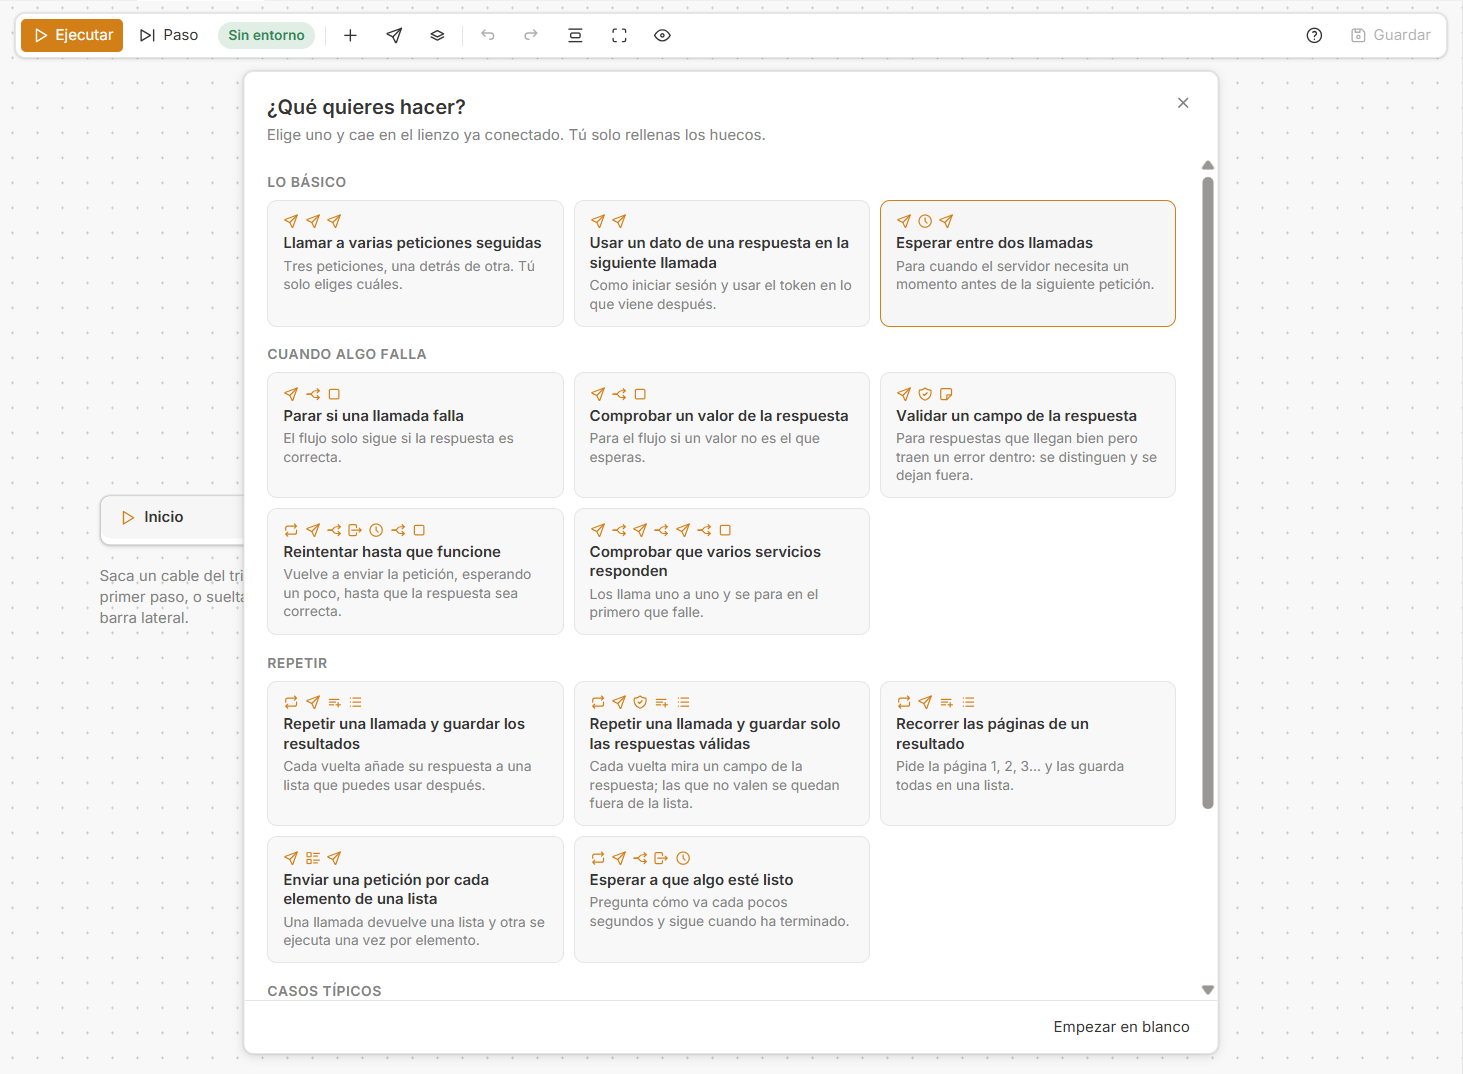
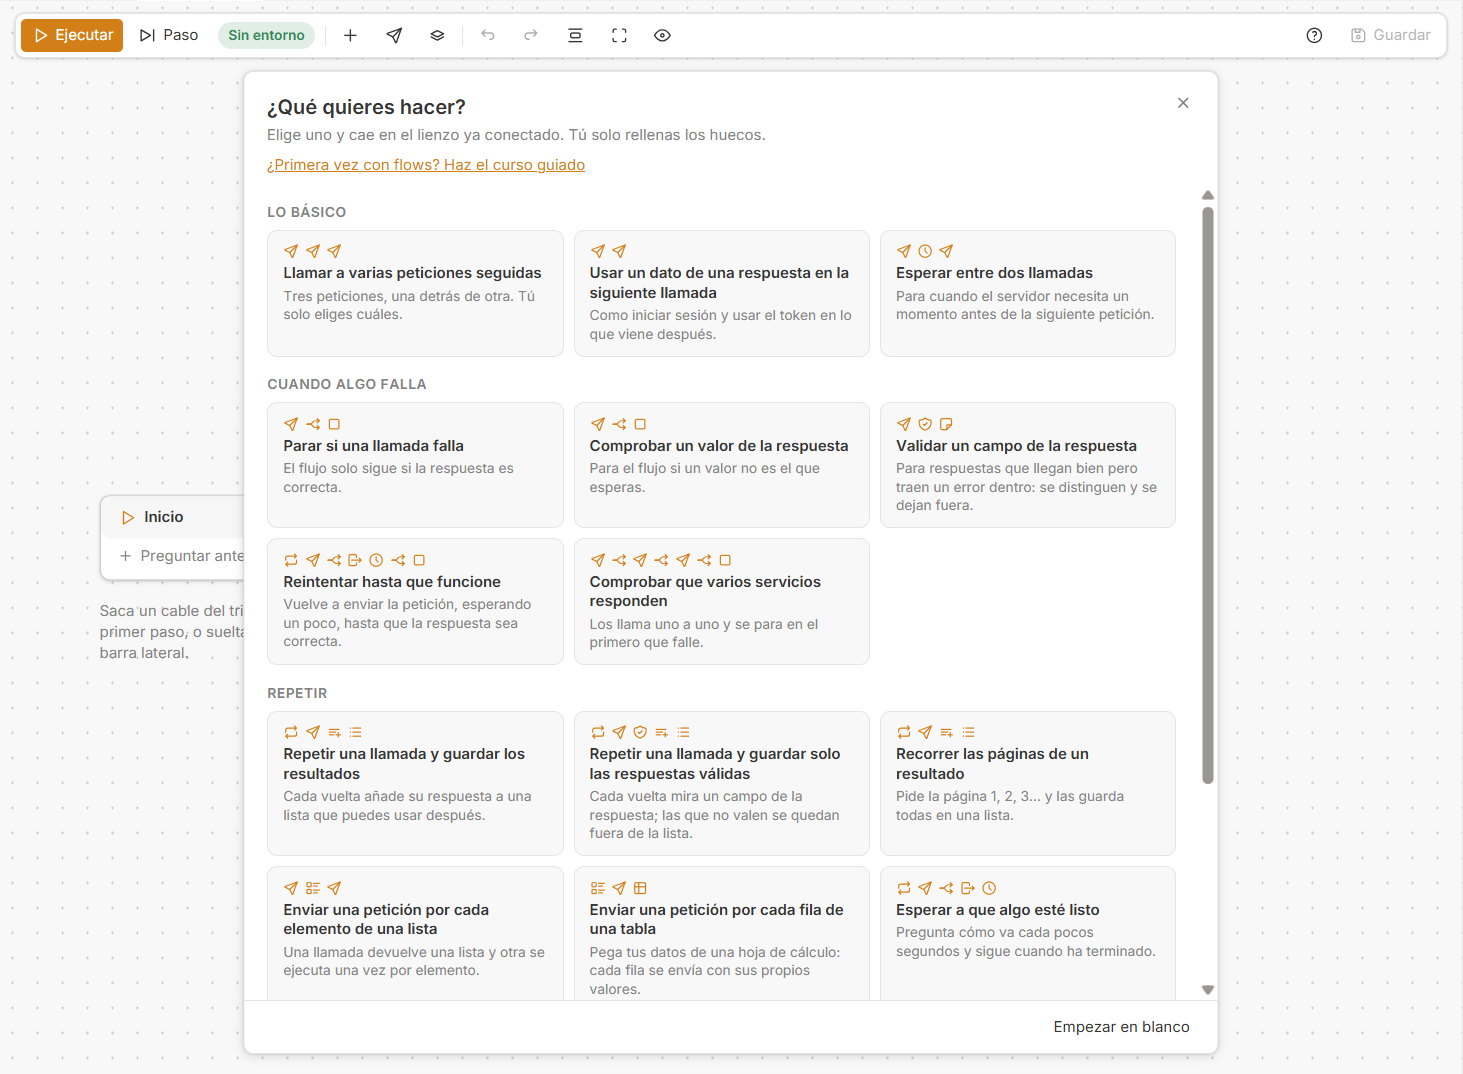
docs(flows): herramientas nuevas, curso guiado, DEC-29 y capturas al día

diff --git a/fork/docs/funciones/flows.md b/fork/docs/funciones/flows.md
@@ -22,14 +22,16 @@ Para empezar a usarla sin leer todo esto está la [guía rápida](flows-guia.md)
 
 | Paso | Qué hace |
 |---|---|
-| Start | Donde empieza el flow. Siempre hay uno y no se puede borrar |
+| Start | Donde empieza el flow. Siempre hay uno y no se puede borrar. Puede hacer preguntas antes de ejecutar (ver [Preguntar antes de ejecutar](#preguntar-antes-de-ejecutar)) |
 | Request | Envía una petición de la colección, igual que desde su pestaña: mismo entorno, mismos scripts y la respuesta queda también en la pestaña de la petición |
-| If | Elige un camino. Comprueba si la última respuesta fue correcta (2xx), si su código es uno concreto, o compara dos valores |
+| If | Elige un camino. Comprueba si la última respuesta fue correcta (2xx), si su código es uno concreto, si pasan los tests que lleva la petición, o compara dos valores |
 | Validate | Mira un valor y decide si lo que llegó vale: *Not valid if* [valor] [comparación] [otro valor]. Sigue por **Valid** o por **Not valid**. Es para las respuestas que llegan con un 200 pero traen un código de error dentro: lo que cuelga de **Valid** no las ve. Dentro de un bucle, si de **Not valid** no cuelga nada, la vuelta termina y empieza la siguiente |
 | Repeat | Repite lo que cuelga de *On each round* las veces indicadas. Lo que repite queda dentro de un marco. La vuelta termina cuando el camino se acaba o cuando llega a *End of round* |
 | For each item | Como Repeat, pero da una vuelta por cada elemento de una lista: una lista del flow o un campo de una respuesta que sea una lista. En cada vuelta entrega el elemento (*Item*), los campos suyos que se añadan con *Add a field* y el número de vuelta |
 | Leave loop | Termina el bucle en el que está, aunque le queden vueltas, y el flow sigue por su *When finished*. Sirve para reintentar hasta que algo funcione o esperar a que un proceso termine. Fuera de un bucle lleva un aviso y el flow no se ejecuta |
 | List y Add to list | Una lista que se va llenando, con un valor o con varios campos por vuelta. Se puede usar después del bucle. **Add to list** elige su lista por nombre en un desplegable; si el flow solo tiene una, ya viene elegida. El paso **List** enseña dentro lo que va guardando y abre su informe (ver [El informe de una lista](#el-informe-de-una-lista)) |
+| Data table | Una tabla de datos escrita en el flow, para recorrerla con **For each item**: cada fila es un elemento y sus columnas, sus campos (ver [Tabla de datos](#tabla-de-datos)) |
+| Run a flow | Ejecuta otro flow de la colección como un paso (ver [Flows dentro de flows](#flows-dentro-de-flows)) |
 | Set variable | Guarda un valor con un nombre para usarlo en pasos posteriores como `{{nombre}}` |
 | Wait | Espera unos segundos |
 | Note | Escribe un mensaje en la salida y sigue |
@@ -49,7 +51,7 @@ La lista de **Add a field**, y la de valores de otros pasos, ofrece los campos d
 
 Lo que no aparece se puede escribir a mano, también como en los scripts: `pedidos[2].id`.
 
-**Listas.** Un campo que pasa por una lista lee, si no se dice otra cosa, el primer elemento. En su fila sale una ficha con el elemento que lee (`#1`); al pulsarla se elige **The first item**, **The last item** o se escribe una posición contando desde 1. Una lista entera se entrega tal cual (`all`) y también se puede pedir uno solo de sus elementos. Para pasar por todos está el paso **For each item**.
+**Listas.** Un campo que pasa por una lista lee, si no se dice otra cosa, el primer elemento. En su fila sale una ficha con el elemento que lee (`#1`); al pulsarla se elige **The first item**, **The last item**, se escribe una posición contando desde 1, o se escribe `campo=valor` para leer el primer elemento que lo cumple (`estado=abierto`). A mano también vale `pedidos[estado=abierto].id`. Una lista entera se entrega tal cual (`all`) y también se puede pedir uno solo de sus elementos. Para pasar por todos está el paso **For each item**.
 
 ### Texto o valor de otro paso
 
@@ -88,12 +90,44 @@ Bloques que trae Michi:
 |---|---|
 | The basics | Llamar a varias peticiones seguidas · usar un valor de una respuesta en la siguiente llamada · esperar entre dos llamadas |
 | When something fails | Parar si una llamada falla · comprobar un valor de la respuesta · validar un campo de la respuesta · reintentar hasta que funcione · comprobar que varios servicios responden |
-| Repeating | Repetir una llamada y guardar los resultados · repetir una llamada y guardar solo las respuestas válidas · recorrer las páginas de un resultado · enviar una petición por cada elemento de una lista · esperar a que algo esté listo |
+| Repeating | Repetir una llamada y guardar los resultados · repetir una llamada y guardar solo las respuestas válidas · recorrer las páginas de un resultado · enviar una petición por cada elemento de una lista · enviar una petición por cada fila de una tabla · esperar a que algo esté listo |
 | Typical cases | Crear, comprobar y borrar · crear solo si no existe |
 
 **La guía.** Un bloque de Michi abre abajo a la izquierda la lista de lo que falta por rellenar, en orden. Cada punto se tacha solo cuando el lienzo muestra que está hecho (se eligió la petición, se conectó el valor, se pulsó **Run**), y los que no se pueden comprobar se tachan a mano pulsando su número. El paso al que se refiere cada punto lleva ese número encima; pulsar el texto de un punto lleva a su paso. La guía se cierra con su aspa y no se guarda.
 
 **Bloques propios.** Con uno o más pasos seleccionados aparece **Save as block**, que pide un nombre. El bloque guarda los pasos tal como están, con sus peticiones ya elegidas, sus ajustes y los cables entre ellos, y sale en la galería bajo **My blocks**. Se guarda en la colección, así que le llega a todo el equipo. Se borra desde la propia galería, con una segunda pulsación para confirmar. Insertar un bloque se deshace de una vez con `Ctrl+Z`.
+
+### Preguntar antes de ejecutar
+
+El paso **Start** tiene **Ask before running**: cada pregunta lleva un nombre y, si se quiere, su respuesta habitual. Al pulsar **Run**, una ventana las hace, rellenas con lo que se contestó la última vez. Cada respuesta sale de **Start** como un valor para unir a lo que la necesite, y es además una variable con el nombre de la pregunta (`{{cuantos}}`). **Step** pregunta igual al empezar; **Continue** no vuelve a preguntar.
+
+### Tabla de datos
+
+**Data table** guarda filas pegadas desde una hoja de cálculo (o escritas como CSV con comas o punto y coma); la primera línea son los nombres de las columnas. **Edit the data** abre la ventana donde se pegan y enseña lo que se va a guardar. Se une a **For each item**, que da una vuelta por fila y ofrece las columnas como campos. Caben 1000 filas y 30 columnas, y los datos se guardan con el flow.
+
+### Flows dentro de flows
+
+**Run a flow** ejecuta otro flow de la colección como un solo paso. Las preguntas que ese flow hace en **Start** son las entradas del paso, y lo que deja con nombre (variables de **Set variable**, listas con nombre y las propias respuestas) son sus salidas. La salida cuenta lo que pasa dentro, con el nombre del flow delante. Si el flow de dentro falla, falla el paso; continuar lo ejecuta entero otra vez. No se admiten más de cinco niveles, que es también lo que corta un flow que se llame a sí mismo.
+
+### Probar un paso
+
+Clic derecho sobre un paso: **Run only this step** lo ejecuta a él solo y **Run from this step** ejecuta desde él hasta el final. Los dos parten de lo que dejó la última ejecución (respuestas, variables y listas), así que no hay que volver a enviar lo anterior. Si no ha habido ninguna ejecución, los valores de los pasos anteriores llegan vacíos y la salida lo avisa.
+
+### Tests de las peticiones
+
+Los tests y aserciones que lleva una petición se ejecutan cuando un flow la envía. La salida dice cuántos pasan junto a su respuesta (`3/4 tests`) y, al final de la ejecución, el total. Una petición con un test que falla destaca, y al desplegar su línea se ve cuál. **If** puede ramificarse por ellos con **The tests of the response pass**.
+
+### El informe de una ejecución
+
+Cada ejecución empieza en la salida con el nombre del flow; el botón de tabla de esa línea abre su informe: cada paso con su resultado y su hora, con los mismos botones de copiar y guardar que el informe de una lista.
+
+### La sección de la barra lateral
+
+La sección **Flows** tiene un buscador por nombre o carpeta cuando hay más de un flow, un botón para duplicar un flow (la copia lleva sus pasos y un número detrás del nombre) y un punto junto a cada flow que dice cómo fue su última ejecución desde que se abrió la app.
+
+### El curso guiado
+
+**Guided course**, en la ayuda y en la galería de un flow nuevo, abre a la izquierda del lienzo un curso de 37 lecciones en seis capítulos. Cada lección que lo permite tiene **Try it on the canvas**, que deja su bloque o su paso en el flow abierto. El progreso es de cada persona. La versión escrita está en [flows-curso.md](flows-curso.md).
 
 ### La ayuda
 
@@ -165,7 +199,9 @@ Todo el código está en `packages/bruno-app/src/components/fork/Flows/` y en `p
 | `fields/` | Qué campos tiene la respuesta de una petición antes de enviarla: rutas y posiciones en listas (`paths.js`), lectura de documentos OpenAPI (`spec.js`), lectura de los scripts como texto (`script.js`), lo recordado entre sesiones (`memory.js`) y el observador que anota cada respuesta que llega (`watch.js`, instalado desde `ForkRoot`) |
 | `FlowCanvas/` | El componente que junta lo anterior: selección, arrastres, zoom, teclado y soltar desde la barra lateral |
 | `blocks/` | Los bloques: el catálogo de los que trae Michi (`catalog.js`), cómo se montan, se insertan y se guardan los propios (`building.js`), la guía y cómo sabe que un punto está hecho (`guide.js`), los bloques de cada colección (`store.js`) y los componentes `Gallery`, `GuidePanel`, `HelpPanel` y `SaveBlockModal` |
-| `report/` | El informe de una lista: de los datos a filas y columnas (`table.js`), a texto, tabla y página HTML (`export.js`), y la ventana `ReportModal` |
+| `report/` | Los informes: de los datos a filas y columnas (`table.js`), a texto, tabla y página HTML (`export.js`), de la salida de una ejecución a filas (`runReport.js`) y la ventana `ReportModal` |
+| `data/` | La tabla de datos: de texto pegado a columnas y filas (`parse.js`) y la ventana `TableModal` |
+| `course/` | El curso guiado: las lecciones (`lessons.js`, con su español en `SpanishUi/flowsCourse.js`), el progreso de cada persona (`progress.js`) y el panel `CoursePanel` |
 | `run/` | La ejecución en la app: `host.js` envía cada petición con `sendNetworkRequest`, como hace Bruno; `controller.js` pide la confirmación de entorno sensible y traduce los eventos del motor; `session.js` guarda el estado de cada ejecución y la salida; `OutputPanel/` la pinta |
 
 - Un flow es un JSON con `nodes` (tipo, posición y ajustes) y `edges` (de qué puerto a qué puerto, y los codos si se les ha dado forma).

diff --git a/fork/docs/funciones/flows-guia.md b/fork/docs/funciones/flows-guia.md
@@ -10,6 +10,10 @@ En *Preferencias → Michi* enciende **Flujos** (*Flows*) y, si quieres la app e
 
 Un flow encadena peticiones que ya tienes en la colección. Si la petición todavía no existe, créala primero como siempre.
 
+Si prefieres aprender paso a paso, la app trae un **curso guiado**: al abrir un flow nuevo, pulsa «¿Primera vez con flows? Haz el curso guiado». Cada lección te deja practicar sobre el lienzo.
+
+![El curso guiado, a la izquierda del lienzo](../img/flows-curso.png)
+
 ## Tu primer flow en un minuto
 
 1. En la sección **Flujos**, pulsa **+** y ponle un nombre.
@@ -61,6 +65,7 @@ Hay tres clases de cosas, y cada una tiene su lista:
 | Repetir una llamada y quedarme solo con las que salieron bien | Repetir una llamada y guardar solo las respuestas válidas | La petición, el campo que hay que mirar, el valor que no vale y cuántas veces |
 | Traer todas las páginas de un listado | Recorrer las páginas de un resultado | La petición y de dónde sale el número de página |
 | Hacer una llamada por cada elemento de un listado | Enviar una petición por cada elemento de una lista | La petición que da la lista, dónde está la lista y la petición que se repite |
+| Enviar la misma petición con datos distintos cada vez | Enviar una petición por cada fila de una tabla | Tus filas, pegadas de Excel, la petición y qué columna va a cada valor |
 | Esperar a que un proceso termine | Esperar a que algo esté listo | La petición que dice cómo va y el valor que significa "listo" |
 | Probar el ciclo completo de un recurso | Crear, comprobar y borrar | Las tres peticiones y el id que pasa de una a otra |
 | Crear algo solo si todavía no está | Crear solo si no existe | La petición que busca, la que crea y la que actualiza |
@@ -117,6 +122,8 @@ Si aun así no está, escribe su nombre: `datos.numero`.
 
 ![Un campo de una lista, con la ficha que dice qué elemento lee](../img/flows-posicion.png)
 
+También puedes pedir el elemento que tenga algo: escribe en esa ficha `estado=abierto` y el campo lee el primer elemento cuyo estado es abierto.
+
 Para hacer algo con **todos** los elementos, usa el paso **Por cada elemento**.
 
 ## Cuando llega un 200 con un error dentro
@@ -131,6 +138,24 @@ Hay servicios que contestan 200 y dentro traen un código que dice que no se hiz
 Dentro de un **Repetir**, si de **No válido** no cuelga nada, esa vuelta se acaba ahí y empieza la siguiente: la respuesta mala no se guarda y el flow sigue.
 
 ![Una ejecución en la que Validar deja fuera la respuesta que traía un error](../img/flows-validar.png)
+
+## Datos distintos en cada vuelta
+
+Para enviar la misma petición muchas veces con datos distintos, añade un paso **Tabla de datos**, pulsa **Editar los datos** y pega tus filas tal como las copias de Excel. La primera línea son los nombres de las columnas.
+
+![Ventana para pegar los datos de una tabla](../img/flows-tabla.png)
+
+Únela a un paso **Por cada elemento**: cada vuelta recibe una fila, y al pulsar el cuadrado de un valor de la petición te ofrece las columnas.
+
+## Que el flow pregunte antes de ejecutarse
+
+En el paso **Inicio**, pulsa **Preguntar antes de ejecutar** y escribe la pregunta y su respuesta habitual: cuántos envíos, qué producto. Une la respuesta a lo que la necesite. Al pulsar **Ejecutar** sale una ventana con las preguntas, así cualquiera puede usar el flow sin tocar el lienzo.
+
+![El flow pregunta antes de ejecutarse](../img/flows-preguntas.png)
+
+## Probar un paso sin ejecutarlo todo
+
+Clic derecho sobre un paso: **Ejecutar solo este paso** o **Ejecutar desde este paso**. Usan lo que dejó la última ejecución, así que no se vuelven a enviar las peticiones anteriores. Viene bien cuando el flow crea cosas de verdad.
 
 ## Ver y sacar lo que se ha generado
 
@@ -147,6 +172,8 @@ Para verlo bien y llevártelo, pulsa **Ver informe** en la Lista. Sale una tabla
 | **Guardar como HTML** | Tener el informe en un fichero para guardarlo o enviarlo |
 
 El informe es de la última ejecución. Si cierras Michi se pierde, así que guárdalo o cópialo antes.
+
+Cada ejecución tiene además su propio informe, paso a paso: en **Salida**, pulsa el botón de tabla que hay junto al nombre del flow.
 
 ## Ejecutar
 

diff --git a/fork/docs/decisiones.md b/fork/docs/decisiones.md
@@ -36,6 +36,7 @@
 | DEC-26 | 2026-11-10 | Los **flows** de cada colección se guardan en `.michi.json`, en la clave `flows`, con una entrada por flow y las claves ordenadas. Si el fichero existe pero no se puede leer, no se escribe encima y todos los entornos de esa colección piden confirmación. Aprobada junto con sus enganches, H-37 y el registro genérico de H-18 a H-21 (R-03) | R-10 solo admite ese fichero extra dentro de una colección, y una carpeta nueva la enseñaría el Bruno oficial como carpeta de la colección. Viajan con git y el Bruno oficial no los lee. Contrapartida: dos personas que cambien flows a la vez pueden tener un conflicto en ese fichero, y un fichero con muchos flows crece. Límite de 2 MB por flow. Si un `pull` trae otra versión de un flow que alguien tiene a medio editar, el lienzo lo avisa y deja descartar los cambios propios; guardar sin descartar pisa la versión que llegó | Ambos mantenedores |
 | DEC-27 | 2026-11-10 | Los **bloques propios** de Flows (pasos ya unidos que el equipo guarda para reutilizar) van en `.michi.json`, en la clave `flowBlocks`, con el mismo formato y las mismas comprobaciones que un flow: una entrada por bloque, claves ordenadas y límite de 2 MB. Los bloques que trae Michi no se guardan en la colección: van en el código | Tienen que viajar con la colección para que los comparta el equipo y porque apuntan a sus peticiones por la ruta dentro de ella. Una clave aparte evita que una versión anterior de Michi los enseñe como flows. Sigue siendo el único fichero extra (R-10) y el Bruno oficial no lo lee | Propuesta del segundo mantenedor; se aprueba con la pull request de bloques |
 | DEC-28 | 2026-11-11 | Los **nombres de los campos** vistos en las respuestas, que Flows ofrece al elegir un campo sin haber enviado la petición, se guardan en el ordenador de cada persona (`localStorage`, clave `michi.flows.fields`), no en la colección. Solo nombres, nunca valores; como mucho 400 peticiones por colección y 300 campos por petición. Con *Flows* apagado no se guarda nada | Es una ayuda para montar flows, no parte del flow: en la colección metería ruido en cada `pull` y otra clave en `.michi.json`. Cada persona la tiene al enviar la petición una vez, y los campos que declara un documento de API Specs o mencionan los scripts salen sin haber enviado nada | Propuesta del segundo mantenedor; se aprueba con la pull request de campos |
+| DEC-29 | 2026-11-11 | Lo que en Flows es de cada persona y no del equipo se guarda también en `localStorage`: cómo quiere ver los cables de valores (`michi.flows.view`) y por dónde va en el curso guiado (`michi.flows.course`). Los datos de un paso **Data table** y las preguntas de **Start** sí son parte del flow y van con él en `.michi.json`, dentro de la clave `flows` que ya existe | Son preferencias y progreso personales: en la colección cambiarían con cada persona y ensuciarían cada `pull`. Lo que un flow necesita para ejecutarse igual en todos los equipos tiene que viajar con él | Propuesta del segundo mantenedor; se aprueba con la pull request de herramientas |
 
 ## Cambios de reglas
 

diff --git a/fork/docs/README.md b/fork/docs/README.md
@@ -27,6 +27,7 @@ La presentación para usuarios está en [.github/README.md](../../.github/README
 | [funciones/panel-git.md](funciones/panel-git.md) | Panel Git: sincronizar sin perder trabajo, resolver conflictos y salir de un detached HEAD |
 | [funciones/flows.md](funciones/flows.md) | Flows: encadenar peticiones en un lienzo, sin código, y ejecutarlas viendo cada paso |
 | [funciones/flows-guia.md](funciones/flows-guia.md) | Guía rápida de Flows para quien nunca ha montado uno: el primer flow, qué bloque elegir y qué hacer si algo no sale |
+| [funciones/flows-curso.md](funciones/flows-curso.md) | Curso guiado de Flows, el mismo que trae la app: 37 lecciones que recorren todos los pasos y bloques |
 | [funciones/fork-9-a-11.md](funciones/fork-9-a-11.md) | Preferencias de Michi, etiquetas PDF/ZPL, QR, historial, hora local, interfaz en español, barrera solo en escrituras, sin telemetría y paneles de `bru.visualize` |
 
 ## Versión vigente
